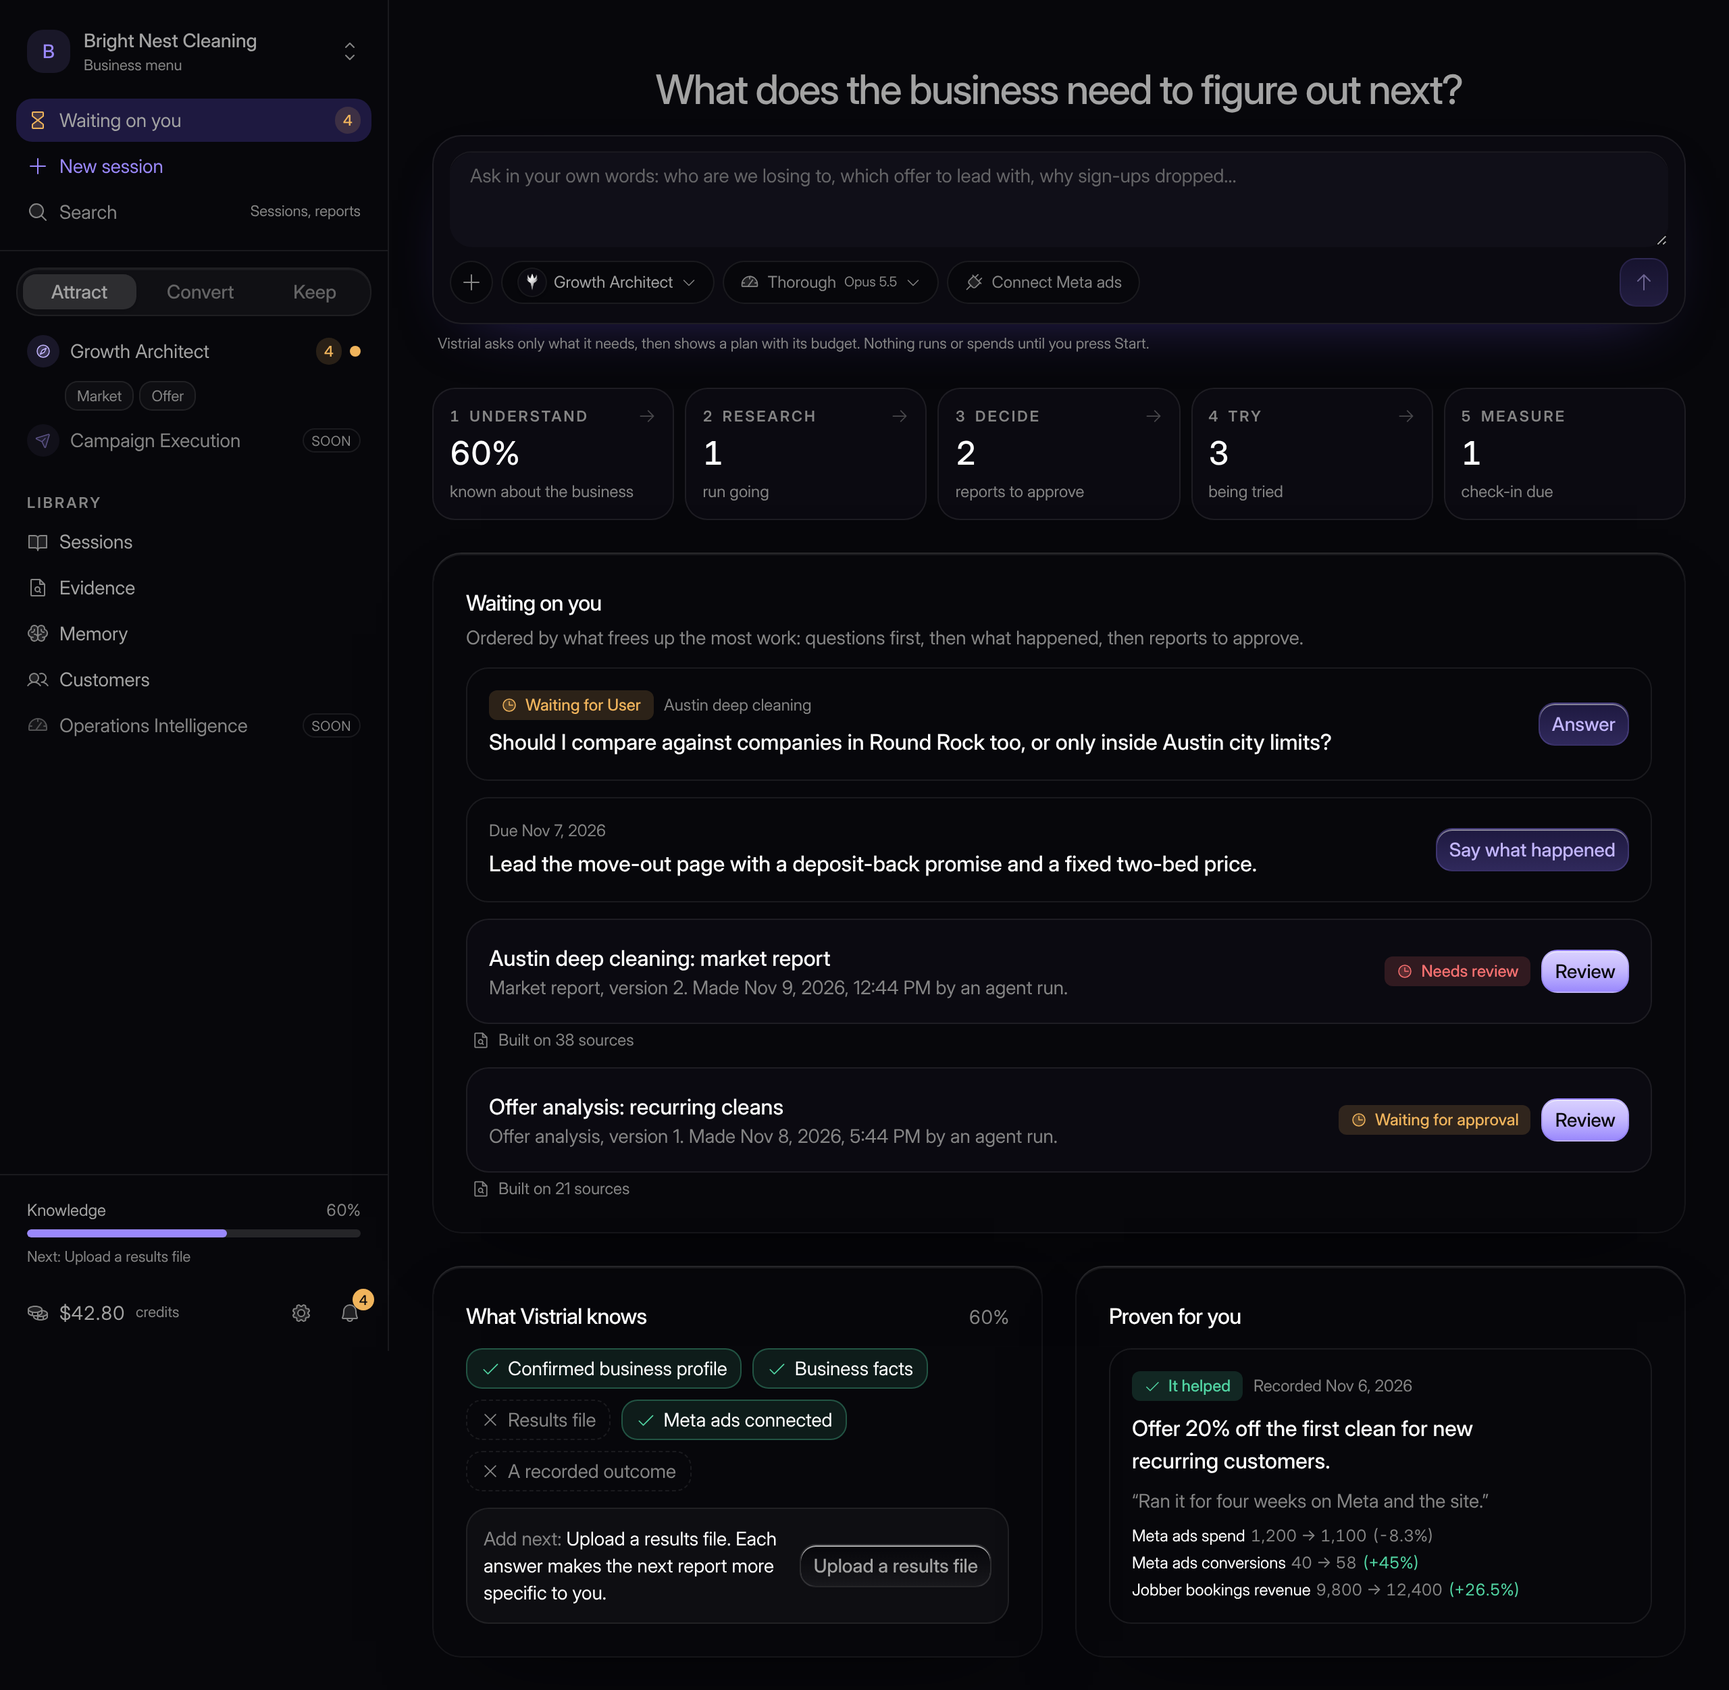
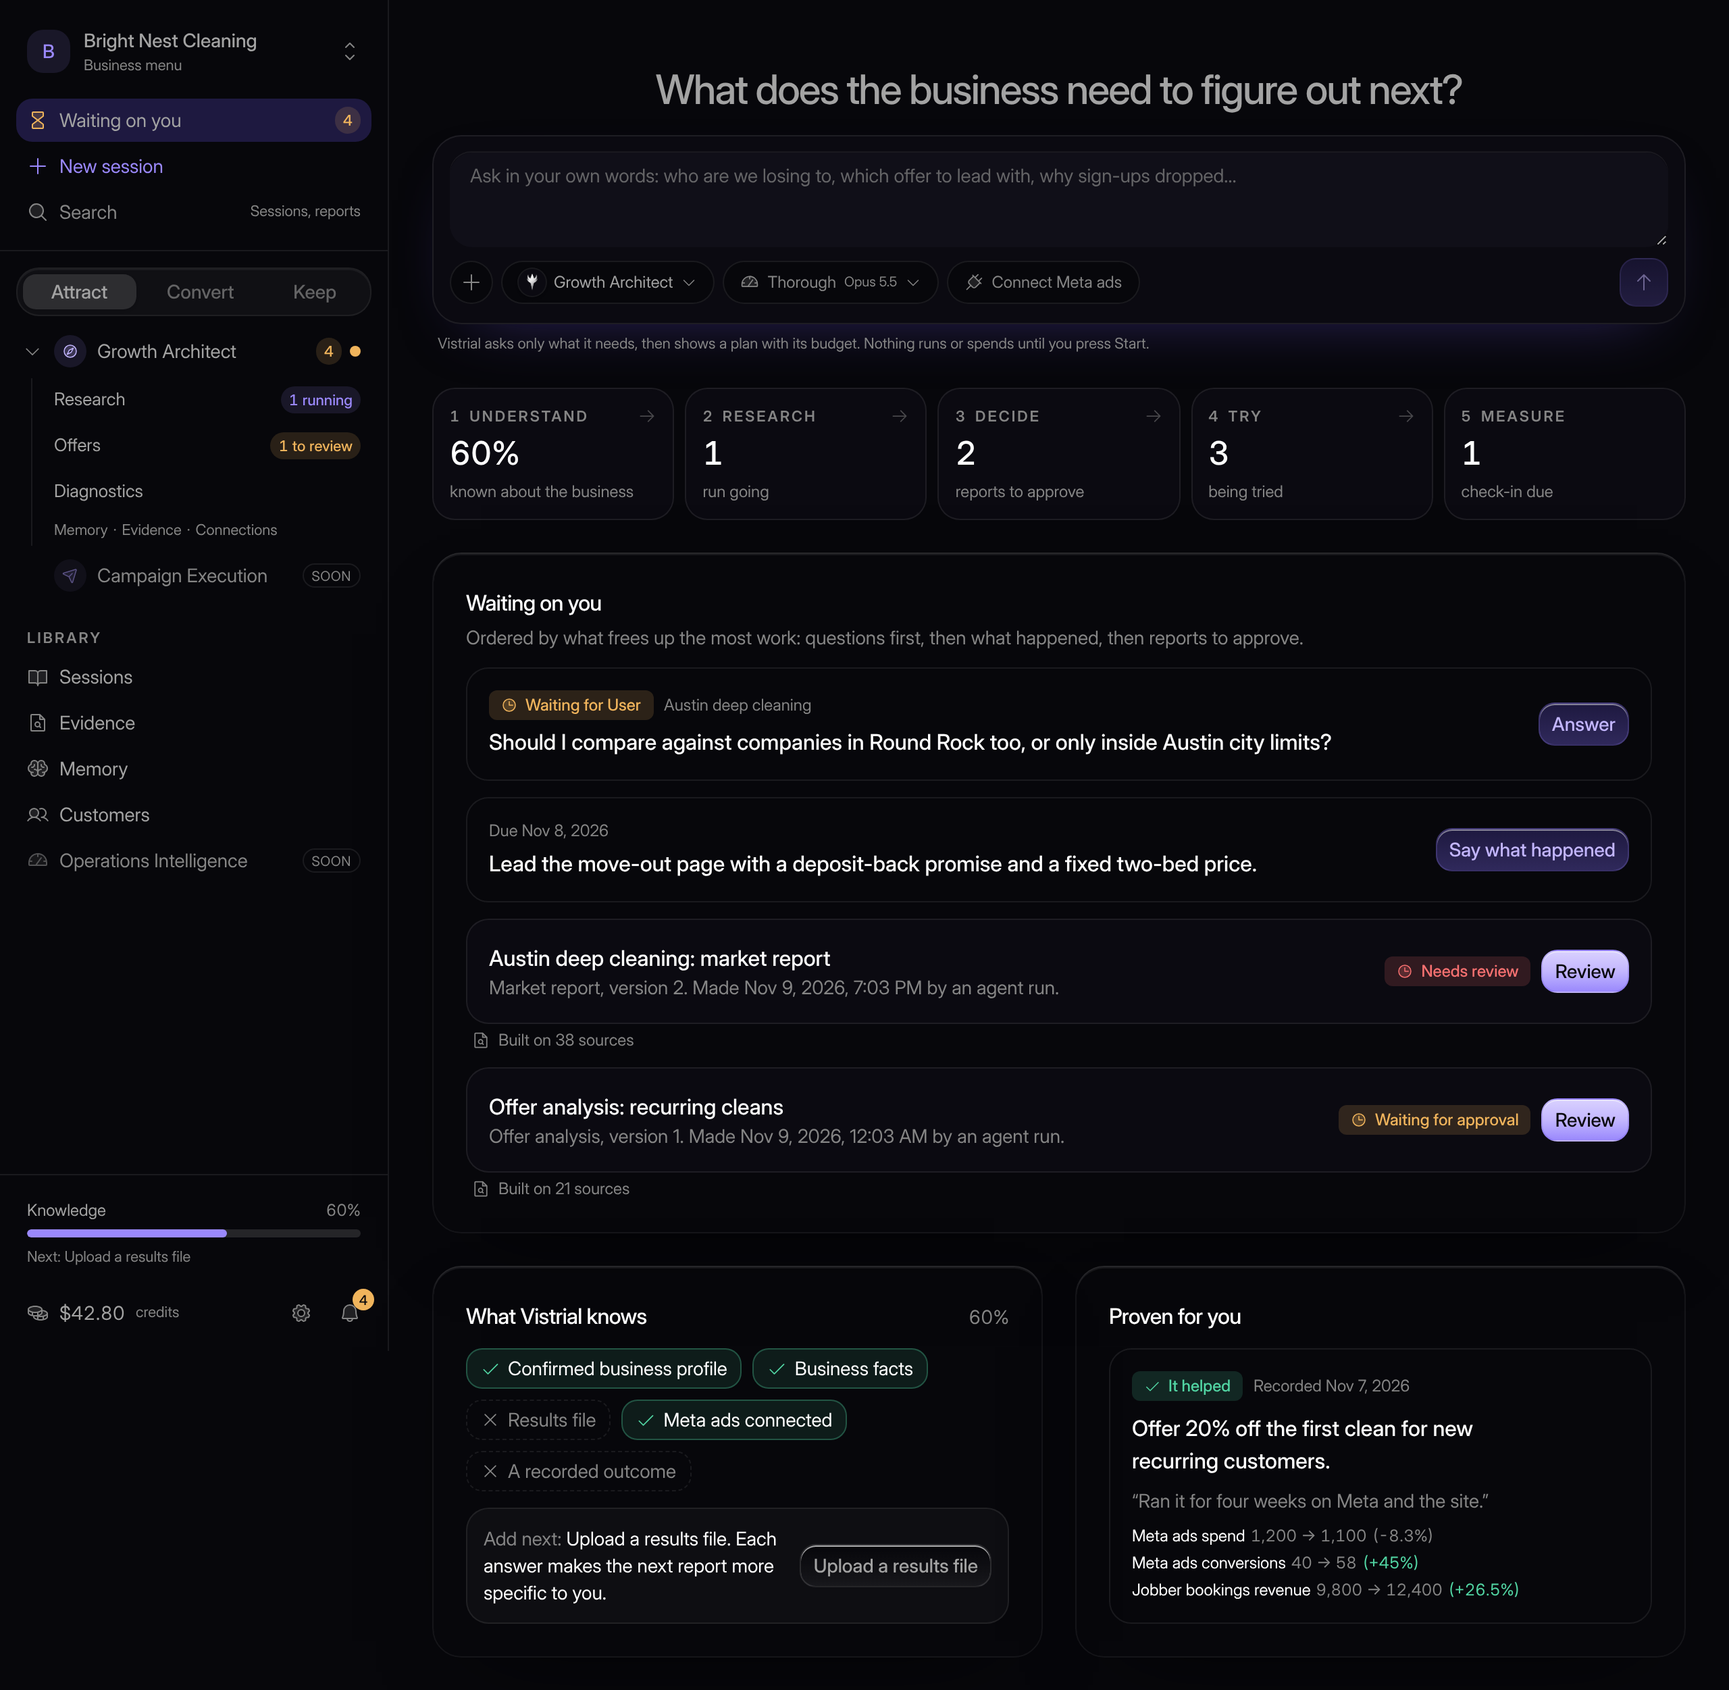
Sidebar: agent rows expand into work tabs
Growth Architect's row now expands into Research, Offers and Diagnostics
(one tab per live skill, linking to the #227 work pages), each with a
running or to-review count, then Memory · Evidence · Connections. Rows
remember whether they are open (localStorage, try/catch); in the phone
drawer, tapping the agent opens its tabs. The skill chips are gone.

home.overview adds per-skill counts for the tabs, with a test.

Claude-Session: https://claude.ai/code/session_01BiDhVN6AgMgobZFPtswcce

diff --git a/src/components/shell/journey-sidebar.tsx b/src/components/shell/journey-sidebar.tsx
@@ -9,6 +9,7 @@ import {
   Bell,
   BookOpen,
   Brain,
+  ChevronRight,
   Building2,
   Check,
   ChevronsUpDownIcon,
@@ -39,8 +40,7 @@ import {
   agentsOffJourney,
   defaultTab,
   isJourneyTab,
-  liveSkills,
-  skillChipLabel,
+  workTabsFor,
   tabForPath,
   type AgentActivity,
   type AgentDot,
@@ -209,40 +209,146 @@ function LiveSearchResults({ text, close }: { text: string; close: () => void })
   return <SearchResults text={text} hits={hits} close={close} />;
 }
 
-function AgentRow({ agent, activity, pathname, onNavigate }: { agent: RailAgent; activity: AgentActivity | undefined; pathname: string; onNavigate?: () => void }) {
+const ROWS_STORE = "vistrial.agentRows.v1";
+
+function readRows(): Set<string> | null {
+  try {
+    const raw = window.localStorage.getItem(ROWS_STORE);
+    const parsed: unknown = raw ? JSON.parse(raw) : null;
+    return Array.isArray(parsed) ? new Set(parsed.filter((item): item is string => typeof item === "string")) : null;
+  } catch {
+    return null;
+  }
+}
+
+function writeRows(open: Set<string>) {
+  try {
+    window.localStorage.setItem(ROWS_STORE, JSON.stringify([...open]));
+  } catch {
+    // Private windows and blocked storage: rows still open and close, they just are not remembered.
+  }
+}
+
+export type SkillCounts = Record<string, { running: number; review: number }>;
+
+/** A work tab's count: what is running first, otherwise what is waiting for review. */
+function TabCount({ counts }: { counts: { running: number; review: number } | undefined }) {
+  if (counts?.running) {
+    return (
+      <span aria-label={`${counts.running} running`} className="ml-auto shrink-0 rounded-full bg-primary/12 px-1.5 text-[11px] leading-5 font-medium text-primary tabular-nums">
+        {counts.running} running
+      </span>
+    );
+  }
+  if (counts?.review) {
+    return (
+      <span aria-label={`${counts.review} to review`} className="ml-auto shrink-0 rounded-full bg-warning/15 px-1.5 text-[11px] leading-5 font-medium text-warning tabular-nums">
+        {counts.review} to review
+      </span>
+    );
+  }
+  return null;
+}
+
+function AgentRow({
+  agent,
+  activity,
+  skillCounts,
+  pathname,
+  open,
+  onToggle,
+  onNavigate,
+  drawer,
+}: {
+  agent: RailAgent;
+  activity: AgentActivity | undefined;
+  skillCounts: SkillCounts | undefined;
+  pathname: string;
+  open: boolean;
+  onToggle: (slug: string) => void;
+  onNavigate?: () => void;
+  /** In the phone drawer, tapping the agent opens its tabs instead of leaving the drawer. */
+  drawer: boolean;
+}) {
   const live = agent.status === "live";
   const href = `/app/agents/${agent.slug}`;
-  const active = isActive(pathname, href);
+  const active = isActive(pathname, href, true);
   const dot = agentDot(activity);
   const mark = AGENT_MARK[agent.slug] ?? { glyph: "spark" as const, accent: "neutral" as const };
-  const skills = live ? liveSkills(agent) : [];
+  const tabs = workTabsFor(agent);
+  const expandable = tabs.length > 0;
+  const groupId = `agent-tabs-${agent.slug}`;
+  const inner = (
+    <>
+      <GlyphMark glyph={mark.glyph} accent={mark.accent} size="xs" working={dot === "working"} className={cn(!live && "opacity-50")} />
+      <span className="truncate">{agent.name}</span>
+      {live ? (
+        <span className="ml-auto flex shrink-0 items-center gap-1.5">
+          <Count value={activity?.waiting ?? 0} tone="warning" label={`${activity?.waiting ?? 0} waiting on you`} />
+          <span role="img" aria-label={DOT[dot].label} title={DOT[dot].label} className={cn("size-2 rounded-full", DOT[dot].className)} />
+        </span>
+      ) : (
+        <span className="ml-auto shrink-0 rounded-md border border-border px-1.5 text-[10px] leading-4 tracking-wide text-muted-foreground uppercase">Soon</span>
+      )}
+    </>
+  );
+  const shared = [
+    { href: `/app/agents/${agent.slug}/memory`, label: "Memory" },
+    { href: "/app/evidence", label: "Evidence" },
+    { href: "/app/settings?section=data", label: "Connections" },
+  ];
   return (
-    <li className="grid gap-1">
-      <Link href={href} onClick={onNavigate} aria-current={active ? "page" : undefined} className={cn(row, active && "bg-accent", !live && "text-muted-foreground")}>
-        <GlyphMark glyph={mark.glyph} accent={mark.accent} size="xs" working={dot === "working"} className={cn(!live && "opacity-50")} />
-        <span className="truncate">{agent.name}</span>
-        {live ? (
-          <span className="ml-auto flex shrink-0 items-center gap-1.5">
-            <Count value={activity?.waiting ?? 0} tone="warning" label={`${activity?.waiting ?? 0} waiting on you`} />
-            <span role="img" aria-label={DOT[dot].label} title={DOT[dot].label} className={cn("size-2 rounded-full", DOT[dot].className)} />
-          </span>
+    <li className="grid gap-0.5">
+      <div className={cn("flex min-w-0 items-center rounded-lg", active && "bg-accent")}>
+        {expandable ? (
+          <button
+            type="button"
+            aria-expanded={open}
+            aria-controls={groupId}
+            aria-label={open ? `Close ${agent.name}` : `Open ${agent.name}`}
+            onClick={() => onToggle(agent.slug)}
+            className="flex size-6 shrink-0 items-center justify-center rounded-md text-muted-foreground outline-none hover:text-foreground focus-visible:ring-2 focus-visible:ring-ring"
+          >
+            <ChevronRight aria-hidden className={cn("size-3.5 transition-transform motion-reduce:transition-none", open && "rotate-90")} />
+          </button>
         ) : (
-          <span className="ml-auto shrink-0 rounded-md border border-border px-1.5 text-[10px] leading-4 tracking-wide text-muted-foreground uppercase">Soon</span>
+          <span className="size-6 shrink-0" />
         )}
-      </Link>
-      {skills.length ? (
-        <div className="flex flex-wrap gap-1 pl-9" aria-label={`${agent.name} skills`}>
-          {skills.map((skill) => (
-            <Link
-              key={skill.slug}
-              href={NEW_SESSION}
-              onClick={onNavigate}
-              title={`Start a session: ${skill.name}`}
-              className="rounded-md border border-border bg-overlay/[0.03] px-2 py-0.5 text-[11px] text-muted-foreground outline-none hover:border-primary/40 hover:text-foreground focus-visible:ring-2 focus-visible:ring-ring"
-            >
-              {skillChipLabel(skill.name)}
-            </Link>
-          ))}
+        {drawer && expandable ? (
+          <button type="button" aria-expanded={open} aria-controls={groupId} onClick={() => onToggle(agent.slug)} className={cn(row, "flex-1 pl-1 text-left")}>
+            {inner}
+          </button>
+        ) : (
+          <Link href={href} onClick={onNavigate} aria-current={active ? "page" : undefined} className={cn(row, "flex-1 pl-1", !live && "text-muted-foreground")}>
+            {inner}
+          </Link>
+        )}
+      </div>
+      {expandable && open ? (
+        <div id={groupId} className="ml-[11px] grid gap-0.5 border-l border-border pl-2">
+          <ul className="grid gap-0.5" aria-label={`${agent.name} work`}>
+            {tabs.map((tab) => {
+              const tabActive = isActive(pathname, tab.href);
+              return (
+                <li key={tab.tab}>
+                  <Link href={tab.href} onClick={onNavigate} aria-current={tabActive ? "page" : undefined} className={cn(row, "text-[13px]", tabActive && "bg-accent")}>
+                    <span className="truncate">{tab.label}</span>
+                    <TabCount counts={skillCounts?.[tab.skillSlug]} />
+                  </Link>
+                </li>
+              );
+            })}
+          </ul>
+          <p className="flex flex-wrap items-center gap-x-1 px-2 pt-0.5 pb-1 text-[11px] text-muted-foreground">
+            {shared.map((item, index) => (
+              <span key={item.label} className="flex items-center gap-1">
+                {index > 0 ? <span aria-hidden>·</span> : null}
+                <Link href={item.href} onClick={onNavigate} className="rounded outline-none hover:text-foreground focus-visible:ring-2 focus-visible:ring-ring">
+                  {item.label}
+                </Link>
+              </span>
+            ))}
+          </p>
         </div>
       ) : null}
     </li>
@@ -274,6 +380,16 @@ export function JourneySidebarView({
   renderSearch?: (text: string, close: () => void) => React.ReactNode;
 }) {
   const { overview, credits } = data;
+  const liveSlugs = () => new Set(agents.filter((agent) => workTabsFor(agent).length > 0).map((agent) => agent.slug));
+  const [openRows, setOpenRows] = useState<Set<string>>(() => (typeof window === "undefined" ? liveSlugs() : (readRows() ?? liveSlugs())));
+  const toggleRow = (slug: string) =>
+    setOpenRows((current) => {
+      const next = new Set(current);
+      if (next.has(slug)) next.delete(slug);
+      else next.add(slug);
+      writeRows(next);
+      return next;
+    });
   const [tab, setTab] = useState<JourneyTab>(() => (typeof window === "undefined" ? defaultTab(agents) : (readTab() ?? defaultTab(agents))));
 
   // Opening an agent's page shows its tab.
@@ -331,7 +447,19 @@ export function JourneySidebarView({
           />
           <ul className="grid gap-1" aria-label={`${JOURNEY_TABS.find((row) => row.value === tab)?.label} agents`}>
             {shown.length ? (
-              shown.map((agent) => <AgentRow key={agent.slug} agent={agent} activity={overview?.agents[agent.slug]} pathname={pathname} onNavigate={onNavigate} />)
+              shown.map((agent) => (
+                <AgentRow
+                  key={agent.slug}
+                  agent={agent}
+                  activity={overview?.agents[agent.slug]}
+                  skillCounts={overview?.skills}
+                  pathname={pathname}
+                  open={openRows.has(agent.slug)}
+                  onToggle={toggleRow}
+                  onNavigate={onNavigate}
+                  drawer={Boolean(onNavigate)}
+                />
+              ))
             ) : (
               <li className="px-2 py-1.5 text-xs text-muted-foreground">No agents here yet.</li>
             )}

diff --git a/src/lib/shell/journey.test.ts b/src/lib/shell/journey.test.ts
@@ -1,7 +1,7 @@
 import { describe, expect, it } from "vitest";
 
 import { CATALOG } from "../../../convex/catalog";
-import { agentDot, agentsForTab, agentsOffJourney, defaultTab, journeyTabOf, liveSkills, skillChipLabel, tabForPath } from "./journey";
+import { agentDot, agentsForTab, agentsOffJourney, defaultTab, journeyTabOf, liveSkills, tabForPath, workTabsFor } from "./journey";
 import type { RailAgent } from "./rail";
 
 const agents: RailAgent[] = CATALOG.map((row) => ({ ...row, skills: row.skills }));
@@ -16,13 +16,18 @@ describe("journey tabs", () => {
     expect(journeyTabOf(null)).toBeNull();
   });
 
-  it("names skills short enough for a chip and lists only live ones", () => {
-    expect(skillChipLabel("Market Intelligence")).toBe("Market");
-    expect(skillChipLabel("Offer Intelligence")).toBe("Offer");
-    expect(skillChipLabel("Growth Diagnostics")).toBe("Diagnostics");
+  it("gives a live agent one work tab per live skill, named for the outcome", () => {
     const growth = agents.find((row) => row.slug === "growth-architect")!;
-    expect(liveSkills(growth).map((row) => row.slug)).toEqual(expect.arrayContaining(["market-intelligence", "offer-intelligence"]));
+    expect(workTabsFor(growth).map((row) => [row.label, row.href])).toEqual([
+      ["Research", "/app/agents/growth-architect/work/research"],
+      ["Offers", "/app/agents/growth-architect/work/offers"],
+      ["Diagnostics", "/app/agents/growth-architect/work/diagnostics"],
+    ]);
     expect(liveSkills(growth).every((row) => row.status === "available")).toBe(true);
+    // No tabs for coming-soon skills or planned agents.
+    const onlyMarket = { ...growth, skills: growth.skills!.map((row) => (row.slug === "market-intelligence" ? row : { ...row, status: "comingSoon" as const })) };
+    expect(workTabsFor(onlyMarket).map((row) => row.tab)).toEqual(["research"]);
+    expect(workTabsFor(agents.find((row) => row.slug === "retention")!)).toEqual([]);
   });
 
   it("picks a dot, a default tab and the tab for the open page", () => {

diff --git a/convex/home.ts b/convex/home.ts
@@ -11,6 +11,7 @@ import type { QueryCtx } from "./_generated/server";
 import { GROWTH_ARCHITECT } from "./catalog";
 import { changesBetween, currentFigures } from "./decisions";
 import { workspaceQuery } from "./lib/builders";
+import { SKILL_ASSET } from "./lib/workTabs";
 
 type Ctx = QueryCtx & { workspaceId: Id<"workspaces"> };
 
@@ -166,6 +167,19 @@ export const overview = workspaceQuery({
     // Decisions come from Growth Architect reports.
     for (let index = 0; index < due.length; index += 1) bump(GROWTH_ARCHITECT, "waiting");
 
+    // Per skill, for the agent's work tabs: runs going (or waiting on a question) and results to review.
+    const skills: Record<string, { running: number; review: number }> = {};
+    const skillBump = (slug: string, key: "running" | "review") => {
+      skills[slug] ??= { running: 0, review: 0 };
+      skills[slug][key] += 1;
+    };
+    for (const run of running) skillBump(run.skillSlug, "running");
+    for (const row of asked) skillBump(row.run.skillSlug, "running");
+    for (const asset of reports) {
+      const skill = (Object.keys(SKILL_ASSET) as (keyof typeof SKILL_ASSET)[]).find((slug) => SKILL_ASSET[slug] === asset.kind);
+      if (skill) skillBump(skill, "review");
+    }
+
     const known = await knowledge(ctx);
     return {
       workspaceName: workspace?.name ?? "Your business",
@@ -187,6 +201,7 @@ export const overview = workspaceQuery({
       },
       knowledge: known,
       agents,
+      skills,
     };
   },
 });

diff --git a/src/lib/shell/journey.ts b/src/lib/shell/journey.ts
@@ -1,3 +1,4 @@
+import { SKILL_TAB, type WorkTab } from "../../../convex/lib/workTabs";
 import type { RailAgent } from "@/lib/shell/rail";
 
 /** The customer journey the sidebar groups agents by. */
@@ -37,10 +38,18 @@ export function agentsOffJourney(agents: RailAgent[]) {
   return agents.filter((agent) => journeyTabOf(agent.lifecycle) === null);
 }
 
-/** "Market Intelligence" reads "Market", "Growth Diagnostics" reads "Diagnostics": short enough for a chip. */
-export function skillChipLabel(name: string) {
-  const short = name.replace(/\s+Intelligence$/i, "").replace(/^Growth\s+/i, "").trim();
-  return short || name;
+const WORK_TAB_LABEL: Record<WorkTab, string> = { research: "Research", offers: "Offers", diagnostics: "Diagnostics" };
+
+/**
+ * A live agent's work tabs, one per live skill that has a workspace, named for the outcome: Research
+ * (Market Intelligence), Offers (Offer Intelligence), Diagnostics (Growth Diagnostics). No coming-soon tabs.
+ */
+export function workTabsFor(agent: RailAgent) {
+  if (agent.status !== "live") return [];
+  return liveSkills(agent).flatMap((skill) => {
+    const tab = SKILL_TAB[skill.slug];
+    return tab ? [{ tab, skillSlug: skill.slug, label: WORK_TAB_LABEL[tab], href: `/app/agents/${agent.slug}/work/${tab}` }] : [];
+  });
 }
 
 /** The skills a person can start today. */

diff --git a/convex/home.test.ts b/convex/home.test.ts
@@ -101,6 +101,9 @@ describe("home", () => {
     expect(overview.waiting).toEqual({ total: 3, questions: 1, checkIns: 1, approvals: 1 });
     expect(overview.loop).toMatchObject({ research: 1, decide: 1, try: 1, measure: 1 });
     expect(overview.agents["growth-architect"]).toEqual({ working: 1, waiting: 3 });
+    // The work tabs: the running and the waiting run count as running; the draft market report is to review.
+    expect(overview.skills["market-intelligence"]).toEqual({ running: 2, review: 1 });
+    expect(overview.skills["offer-intelligence"]).toBeUndefined();
     expect(overview.actionable).toBe(true);
   });
 

diff --git a/src/app/dev/journey-sidebar/fixtures.ts b/src/app/dev/journey-sidebar/fixtures.ts
@@ -40,6 +40,7 @@ export function storyOverview(state: string): HomeOverview {
         : { key: "results", label: "Upload a results file", href: "/app/connections/results" },
     },
     agents: empty ? {} : { "growth-architect": { working: 1, waiting: 4 } },
+    skills: empty ? {} : { "market-intelligence": { running: 1, review: 1 }, "offer-intelligence": { running: 0, review: 1 } },
   };
 }
 
